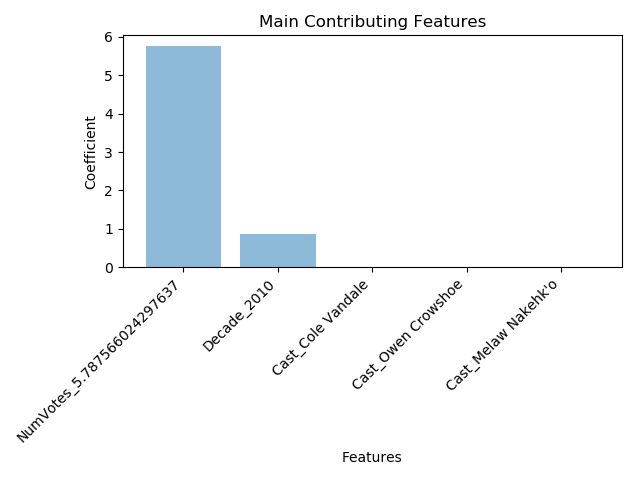
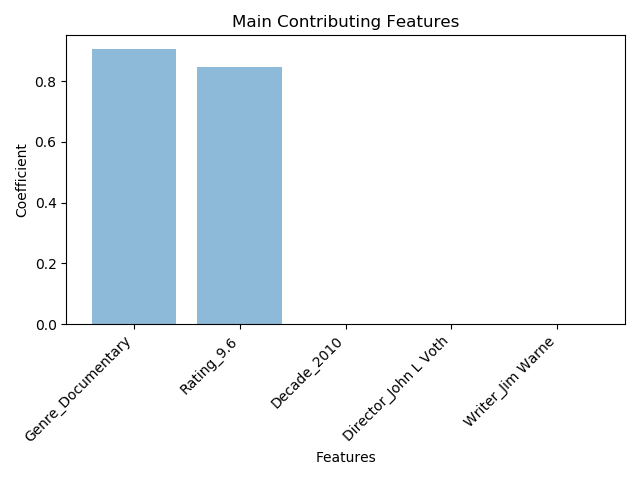
Move style to css

diff --git a/NetflixPrize3/templates/home.html b/NetflixPrize3/templates/home.html
@@ -5,33 +5,7 @@
         <link rel="stylesheet" href="https://cdnjs.cloudflare.com/ajax/libs/jqueryui/1.12.1/themes/smoothness/jquery-ui.css">
         <script src="https://cdnjs.cloudflare.com/ajax/libs/jquery/3.3.1/jquery.js"></script>
         <script src="https://cdnjs.cloudflare.com/ajax/libs/jqueryui/1.12.1/jquery-ui.js"></script>
-        <style>
-            .ui-autocomplete { height: 200px; width: 300px; overflow-y: scroll; overflow-x: scroll; }
-            #title { width: 300px; }
-            .container { border:2px solid #ccc; width:400px; height: 200px; overflow-y: scroll; overflow-x: scroll; }
-            .container_top { border:2px solid #ccc; width:280px; height: 200px; overflow-y: scroll; overflow-x: scroll; }
-            .box {
-                display: grid;
-                height: 200px;
-                grid-template-columns: repeat(4, 1fr);
-                grid-template-rows: 100px;
-                column-gap: 20px;
-            }
-            .box1 {
-                display: grid;
-                height: 50px;
-                grid-template-columns: repeat(3, 1fr);
-                grid-template-rows: 100px;
-                column-gap: 20px;
-            }
-            .box1_top {
-                display: grid;
-                height: 50px;
-                grid-template-columns: repeat(4, 1fr);
-                grid-template-rows: 100px;
-                column-gap: 20px;
-            }
-        </style>
+        <link rel="stylesheet" type="text/css" href="{% static 'NetflixPrize3/style.css' %}">
         <meta charset="utf-8">
         <title>NetflixPrize3!</title>
 
@@ -49,7 +23,6 @@
                 });
             });
         </script>
-
         <script>
             function movie_link() {
                 var t = {{ movieData | safe }}["tconst"]
@@ -83,11 +56,11 @@
                     fieldName = "numVotes";
                     fieldValue = {{ movieData | safe }}[fieldName];
                 }
-                text = text + "<input type=\"radio\" name=\"" + div_id + "\" value="
-                 + {{ movieData | safe }}[fieldName] + " checked" + ">Yes - "
+                text = text + "<input type=\"checkBox\" name=\"" + div_id + "\" value="
+                 + {{ movieData | safe }}[fieldName] + ">" + fieldName + " - "
                  + fieldValue + "<br>";
-                text = text + "<input type=\"radio\" name=\"" + div_id +
-                        "\" value=\"no" + "\">No<br>";
+                // text = text + "<input type=\"radio\" name=\"" + div_id +
+                //         "\" value=\"no" + "\">No<br>";
                 document.getElementById(div_id).innerHTML = text;
             }
         </script>

diff --git a/NetflixPrize3/static/NetflixPrize3/style.css b/NetflixPrize3/static/NetflixPrize3/style.css
@@ -1,0 +1,50 @@
+.ui-autocomplete {
+    height: 200px;
+    width: 300px;
+    overflow-y: scroll;
+    overflow-x: scroll;
+}
+
+.container {
+    border:2px solid #ccc;
+    width:400px;
+    height: 200px;
+    overflow-y: scroll;
+    overflow-x: scroll;
+}
+
+.container_top {
+    border:2px solid #ccc;
+    width:280px;
+    height: 200px;
+    overflow-y: scroll;
+    overflow-x: scroll;
+}
+
+.box {
+    display: grid;
+    height: 200px;
+    grid-template-columns: repeat(4, 1fr);
+    grid-template-rows: 100px;
+    column-gap: 20px;
+}
+
+.box1 {
+    display: grid;
+    height: 50px;
+    grid-template-columns: repeat(3, 1fr);
+    grid-template-rows: 100px;
+    column-gap: 20px;
+}
+
+.box1_top {
+    display: grid;
+    height: 50px;
+    grid-template-columns: repeat(4, 1fr);
+    grid-template-rows: 100px;
+    column-gap: 20px;
+}
+
+#title {
+    width: 300px;
+}

diff --git a/NetflixPrize3/NetflixPrize3/views.py b/NetflixPrize3/NetflixPrize3/views.py
@@ -49,6 +49,11 @@ def button(request):
     for (i,j) in zip(title,year):
         titles.append(i + '(' + str(int(j)) + ')')
     movieEntry = fetchFeatures()
+    dir_path = os.getcwd()
+    os.makedirs(os.path.join(dir_path,'log'), exist_ok=True)
+    # Create log file here
+    # Obtain the time and create a string for file name
+
     return render(request, 'home.html', {'titles': titles, 'movieData': movieEntry})
 
 def fetchFeatures(longTitle="dummy"):
@@ -59,6 +64,9 @@ def fetchFeatures(longTitle="dummy"):
         rand_sample = random.sample(sorted_titles[gen][:100],1)
         longTitle = rand_sample[0][0] + "(" + rand_sample[0][1] + ")"
     title = ""
+
+    # Append title to the file
+    print()
     if longTitle:
         title = longTitle.split('(')
         ti = title[0]
@@ -92,11 +100,11 @@ def feedback(request):
         if temp != "N/A":
             user_movie_entry[feat] = temp
         print(" ".join(temp) if temp != "N/A" else "N/A")
-    user_movie_entry["startYear"] = [request.POST.get("year")]
+    user_movie_entry["startYear"] = [request.POST.get("year","no")]
     print(request.POST.get("year"))
-    user_movie_entry["rating"] = [request.POST.get("rating")]
+    user_movie_entry["rating"] = [request.POST.get("rating","no")]
     print(request.POST.get("rating"))
-    user_movie_entry["numVotes"] = [request.POST.get("numVotes")]
+    user_movie_entry["numVotes"] = [request.POST.get("numVotes", "no")]
     print(request.POST.get("numVotes"))
 
     user_feat = convert_to_feat(user_movie_entry, int(likeChoice == "like"))
@@ -278,7 +286,7 @@ def train(X,Y):
     X = lil_matrix(X)
 
     print("Start training LogisticRegression")
-    logClf = LogisticRegression(random_state = 0, max_iter=100, solver='liblinear', penalty='l1').fit(X, Y)
+    logClf = LogisticRegression(random_state = 0, max_iter=100, solver='liblinear', penalty='l2').fit(X, Y)
 
     logPreds = logClf.predict_proba(movies_feat)
     log_ascending_recommended_movie = np.argsort(logPreds[:,-1])
